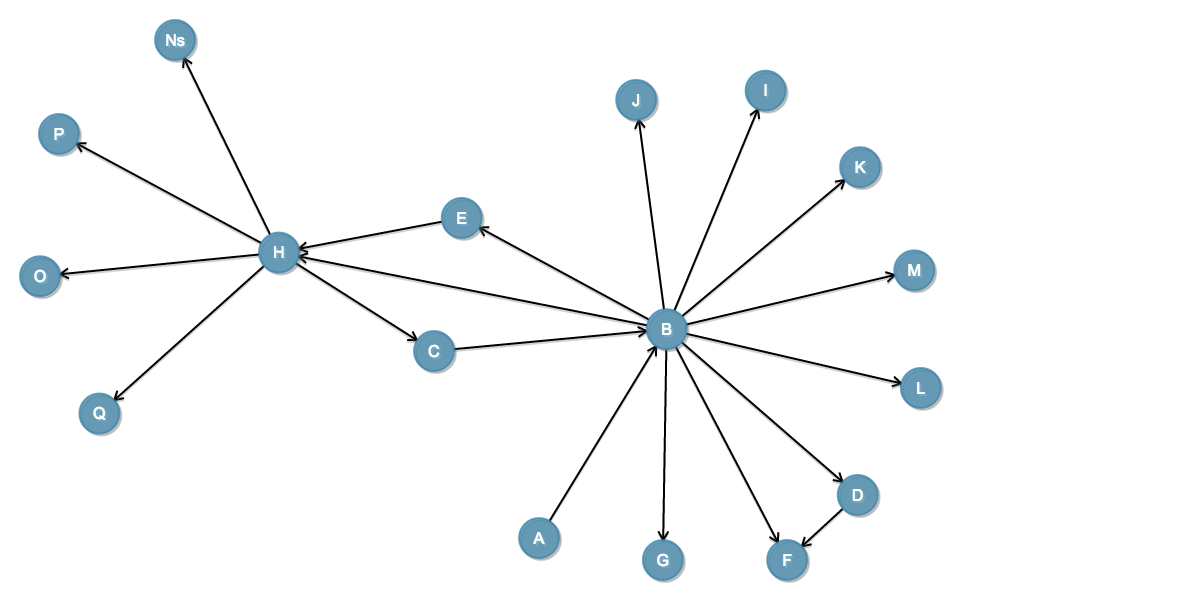
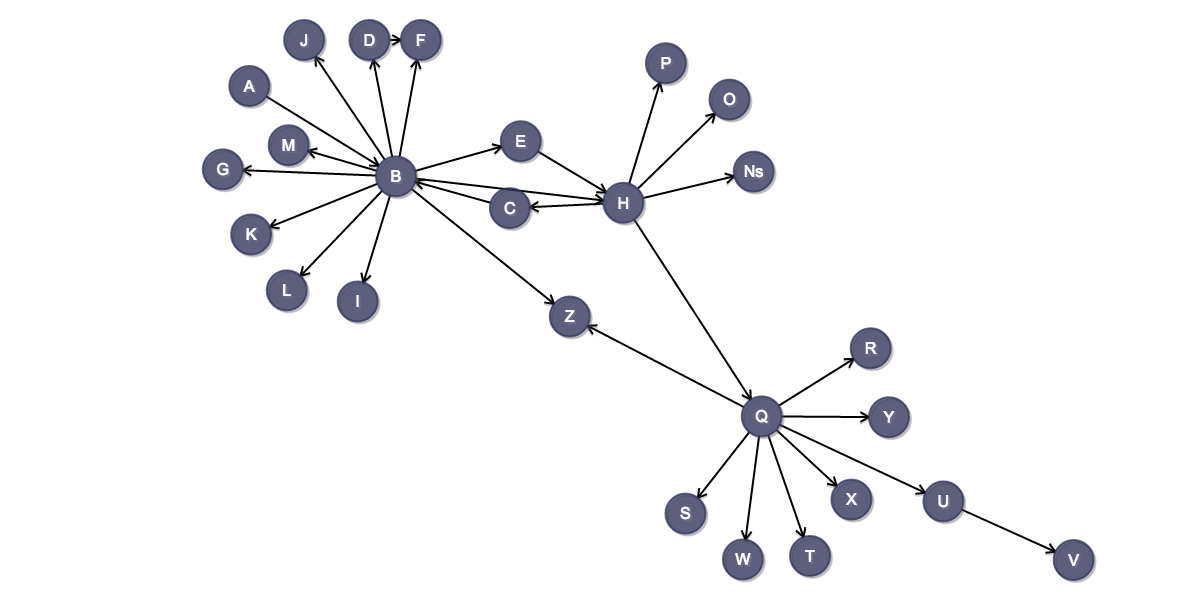
update image
update image

diff --git a/examples.html b/examples.html
@@ -196,12 +196,7 @@ s15.addElement(new DVPieChart({'X':["ClassA","ClassB","ClassC","ClassD"],
 s15.draw();
 
 
-s15 = new DVisual("myCanvas16");
-s15.addElement(new DVGraph({'nodes':["A","B","C","D","E","F","G","H","I","J","K","L","M","Ns","O","P","Q"],
-							'edges':[[0,1],[1,3],[2,1],[1,4],[1,5],[1,6],[1,7],[1,8],[1,9],[1,10],[1,11],[1,12],[7,13],[3,5],[4,7],[7,2],[7,14],[7,15],[7,16],[1,1]],
-							'style':'directed',
-							'distance':'median'}))
-s15.draw();
+
 
 
 
@@ -271,6 +266,22 @@ s19 = new DVisual("myCanvas19");
 s19.addElement(new DVParallelCoordinate({'Xs':getMulRandomMatrix(20,100,5),'arguments':['AAAA','BBBBB','CCCCC','DDDDD','EEEEE'],
 										'ColorPattern':[[new DVColor(255,0,0,0.8),36],[new DVColor(15,38,237,0.8),6]]}));
 s19.draw();
+
+
+s15 = new DVisual("myCanvas16");
+// ks = []
+// for (var i=0;i<50;i++)
+// 	ks.push(i+"");
+// edge = []
+// for (var i=0;i<80;i++)
+// 	edge.push([Math.floor(Math.random()*50),Math.floor(Math.random()*50)])
+s15.addElement(new DVGraph({'nodes':["A","B","C","D","E","F","G","H","I","J","K","L","M","Ns","O","P","Q","R","S","T","U","V","W","X","Y","Z"],
+							'edges':[[0,1],[1,3],[2,1],[1,4],[1,5],[1,6],[1,7],[1,8],[1,9],[1,10],[1,11],[1,12],[7,13],[3,5],[4,7],[7,2],[7,14],[7,15],[7,16],[1,1],[1,25],[16,17],[16,18],[16,19],[16,20],[20,21],[16,22],[16,23],[16,24],[16,25]],
+							'style':'directed',
+							'distance':'median'}))
+
+s15.draw();
+
 // g1 = {'X':["A","B","C"],'Y':[3,5,6],'all':3,'index':1}
 // g2 = {'X':["A","B","C"],'Y':[3,5,6],'all':3,'index':2}
 // g3 = {'X':["A","B","C"],'Y':[3,5,6],'all':3,'index':3}

diff --git a/dvisual.js b/dvisual.js
@@ -2825,7 +2825,7 @@ DVGraph.prototype.distance = function(i,j)
 DVGraph.prototype.rerange = function(dv,V,E)
 {
 	var area = (dv.oldWidth-40)*(dv.oldHeight-40)*0.5;
-	var k = Math.sqrt(area/V.length);
+	var k = Math.sqrt(area/(E.length+V.length));
 	fa = function(x)
 	{
 		return x*x*1.0/k;
@@ -2835,7 +2835,7 @@ DVGraph.prototype.rerange = function(dv,V,E)
 		return k*k*1.0/x;
 	}
 	var t = 10;
-	for (var step=0;step<200;step++)
+	for (var step=0;step<400;step++)
 	{
 		for (var i=0;i<V.length;i++)
 		{
@@ -2871,7 +2871,7 @@ DVGraph.prototype.rerange = function(dv,V,E)
 			V[i].x = Math.min(dv.oldWidth-20,Math.max(20,V[i].x));
 			V[i].y = Math.min(dv.oldHeight-20,Math.max(20,V[i].y));
 		}
-		t = t*0.99;
+		t = t*0.995;
 	}
 	return V;
 	//alert(this.eles[0].args['x']+" "+this.eles[0].args['y'])
